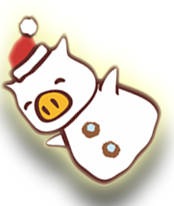
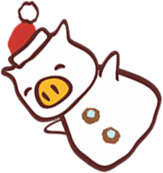
画像差し替え＆なげる!に文言変更

diff --git a/web/tankgame.dart b/web/tankgame.dart
@@ -502,7 +502,7 @@ class FireButton extends GButton {
   
   FireButton() {
     renderer = render;
-    text = "うつ!";
+    text = "なげる!";
     x = 480;
     y = 500;
     width = 140;
